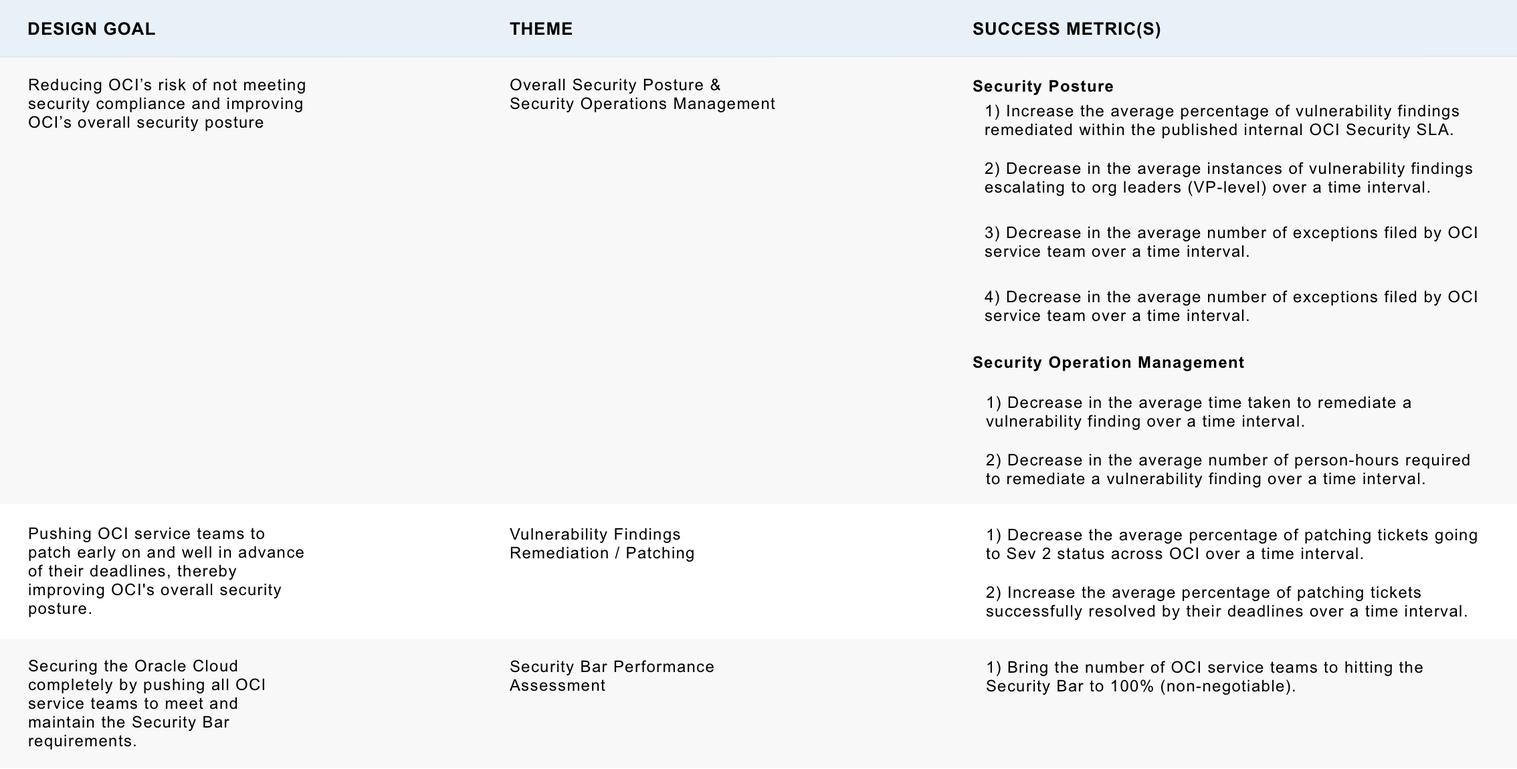
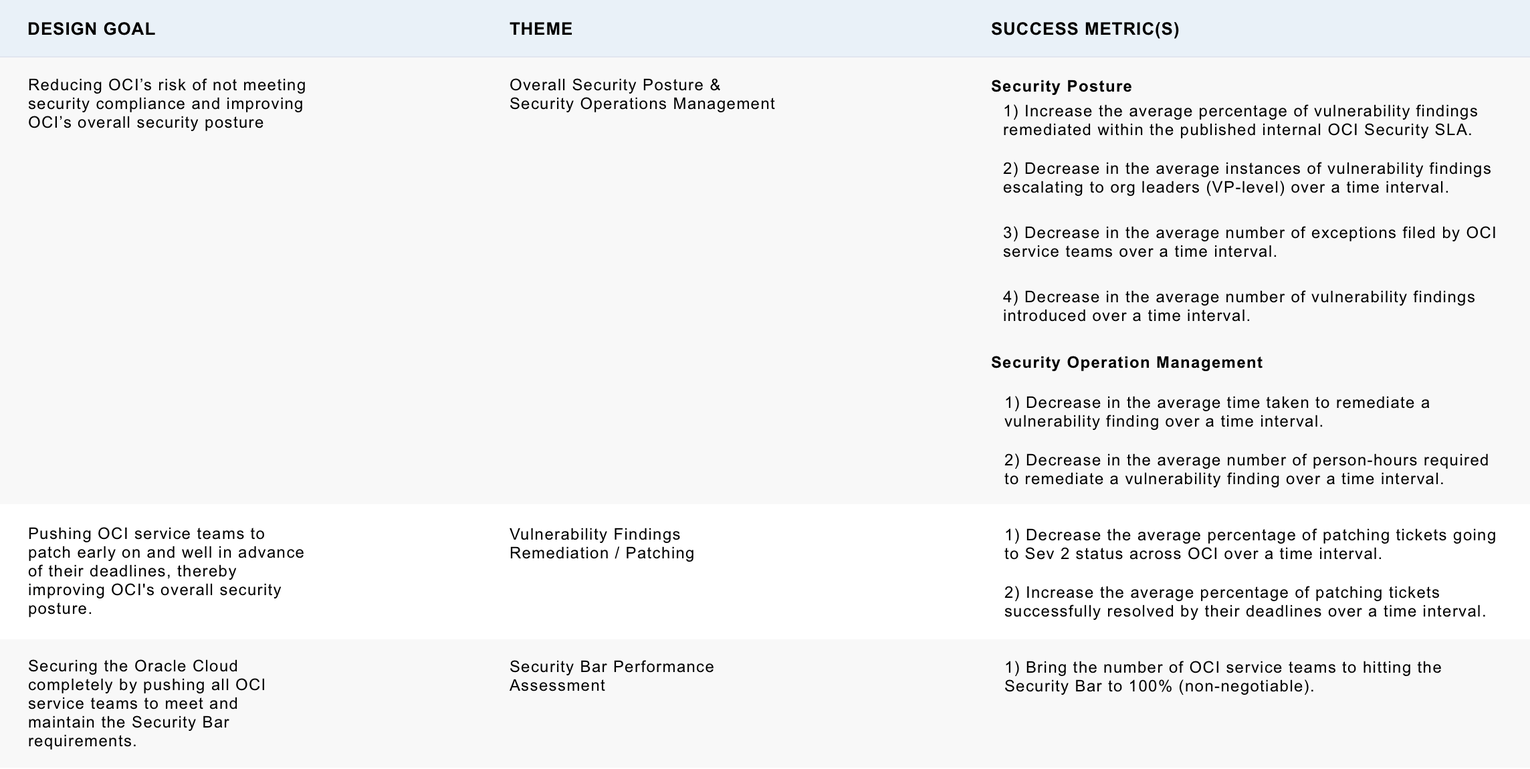
ocisecurity updates major

diff --git a/ocisecurityproject.html b/ocisecurityproject.html
@@ -142,46 +142,49 @@
                 <div class="single-post-content">
                   <p class="italic">Larry Ellison speaking about the company's critical focus on Security (as part of its strategic investment into the cloud) at Oracle OpenWorld 2019 - Oracle's annual tech conference</p>
                   <h2>Security means business</h2>
-                  <p>Keeping Oracle Cloud Infrastructure (OCI) secure is a task of paramount importance that holds a central role in OCI's cloud and customer experience strategy. Ever since the conception of OCI, Larry Ellison has repeatedly pointed to Security as one of its top areas of focus. In fact, OCI's homegrown second-generation cloud infrastructure was built on top of a "fundamental re-architecture of the conventional public cloud, because “the current state of the art of cloud defenses is just not good enough, not even close,”" Oracle Executive Chairman and CTO Larry Ellison said during his keynote at the 2018 Oracle OpenWorld.</p>
+                  <p>Keeping Oracle Cloud Infrastructure (OCI) secure is a task of paramount importance that holds a central role in OCI's customer experience strategy. Ever since the conception of OCI, Larry Ellison has repeatedly pointed to Security as one of its top focus areas. In fact, OCI's homegrown second-generation cloud infrastructure was built on top of a "fundamental re-architecture of the conventional public cloud". As Larry himself stated simply during his keynote at Oracle OpenWorld 2019:</p> 
+                  <blockquote>The current state of the art of cloud defenses is just not good enough, not even close.</blockquote>
                   <p>As such, how well can OCI secure its cloud is a factor that possesses a direct business impact on how likely it is for the company to win its cloud market share.</p>
-                  <h2>Working backwards</h2>
+                  <h2>Aligning with business objectives</h2>
                   <p>As an organization, possessing a robust security posture would provide OCI with the foundation that enables customers to trust it with their most valuable workloads. In this respect, the company's ability to provide leading security requires that it strives to address the following business goals:</p>
                   <ul>
-                    <li><span style="color:#4c4c4c;font-weight:bold">Regulatory Adherence &amp; Accreditation - </span>Keep Oracle Cloud out of legal complications and win more business.</li>
+                    <li><span style="color:#4c4c4c;font-weight:bold">Regulatory Adherence &amp; Accreditation - </span>Keep OCI out of legal complications and win more business.</li>
                     <li><span style="color:#4c4c4c;font-weight:bold">OCI Security Bar - </span>Do the things necessary to secure our cloud.</li>
                     <li><span style="color:#4c4c4c;font-weight:bold">Rapid Security Response - </span>Fix all the bad things we find as efficiently as possible.</li>
-                    <li><span style="color:#4c4c4c;font-weight:bold">Scalable Security Operations - </span>Keep up with 1, 2, and 3 as Oracle Cloud continues grow.</li>
+                    <li><span style="color:#4c4c4c;font-weight:bold">Scalable Security Operations - </span>Keep up with 1, 2, and 3 as OCI continues grow.</li>
                   </ul>
-                  <p>This all starts with knowing what the company must protect. OCI cannot secure what it doesn't know exist. <span style="color:#4c4c4c;font-weight:bold">In fact, the top threat to the security of Oracle Cloud is a lack of an authoritative asset inventory and security reporting/assessment mechanism.</span></p> 
+                  <p>This all starts with knowing what the company must protect. OCI cannot secure what it doesn't know exist. <span style="color:#4c4c4c;font-weight:bold">In fact, the top threat to the security of OCI is a lack of an authoritative asset inventory and security reporting/assessment mechanism.</span></p> 
                   <h2>Introduction to Security Central</h2>
-                  <p>Inventory management is at the core of OCI's security solution. The company needs an application that can help it capture rapidly changing asset information, and serve as the source of truth for all physical and virtual assets in OCI's data centers. At the same time, this application should also be a security reporting / assessment service that could provide a centralized view of the security status for all tracked assets. Ideally, it would enable OCI service owners, leadership, as well as Security and Compliance teams to understand the company's current security posture. It would automate security reporting for use in compliance audits, and notify asset owners when remediation is required. While Spotlight - OCI's legacy tool for inventory management - served as an effective inventory manager, it didn't quite do a good job at visualizing the desired centralized view of the organization's security posture.</p>
-                  <p>As such, Security Central has been introduced to become OCI's go-to security management service with the ultimate goal of becoming a "single-pane" interface for OCI service teams, leadership, and Security / Compliance teams to assess and understand OCI's assets' security / compliance status. In a nutshell, OCI service teams should be efficiently notified of security findings and accordingly provided with a clear path to remediation; leadership can quickly understand the security status of assets owned by their teams and services, aggregated at any level; and Security / Compliance relies on Security Central's daily findings reports to understand the risk to our compliance posture, giving them the ability to effectively generate reports for our auditors.</p>
-                  <p>In order to help bring these ideals to life, the Security Central UI/UX requires enhancements that span across various themes / areas, and a truly collaborative effort that leverages and iterative design process:</p>
+                  <p>Inventory management is at the core of OCI's security solution. The company needs an internal application that can help it capture rapidly changing asset information, and serve as the source of truth for all physical and virtual assets in OCI's data centers. At the same time, this application should also be a security reporting / assessment service that could provide a centralized view of the security status for all tracked assets. Ideally, it would enable OCI service owners, leadership, as well as Security and Compliance teams to understand the company's current security posture. It would automate security reporting for use in compliance audits, and notify asset owners when remediation is required. While Spotlight - OCI's legacy tool for inventory management - served as an effective inventory manager, it didn't quite do a good job at visualizing the desired centralized view of the organization's security posture.</p>
+                  <p>As such, Security Central has been envisioned to become OCI's go-to security management service, with the ultimate goal of becoming a "single-pane" interface for OCI service teams, leadership, and Security / Compliance teams to assess and understand OCI's assets' security / compliance status. In a nutshell, OCI service teams should be efficiently notified of security findings and accordingly provided with a clear path to remediation; leadership can quickly understand the security status of assets owned by their teams and services, aggregated at any level; and Security / Compliance relies on Security Central's daily findings reports to understand the risk to OCI's compliance posture, giving them the ability to effectively generate reports for our auditors.</p>
+                  <p>In order to help bring these ideals to life, the Security Central UI/UX requires enhancements that span across various themes / areas, and a truly collaborative effort that leverages an iterative design process:</p>
                   <img src="images/OCISECURITYimages/ocisecurityprocess.png" alt="">
                   &nbsp; 
                   <h2>Problem Statements &amp; User Personas</h2>
-                  <p>Below is a general outline of the different themes that are relevant and all play a role in determining how good OCI's security posture could be. <span style="color:#4c4c4c;font-weight:bold">Through an affinity diagramming exercise, these themes have been defined based on the user data collected from user requirements meetings and user interviews.</span> Each one of these themes present certain challenges and user pain points - those of which will benefit from UI/UX enhancements as well as feature additions to the tool.</p>
+                  <p>Below is a general outline of the different themes that are relevant and all play a role in determining how good OCI's security posture could be. <span style="color:#4c4c4c;font-weight:bold">Through an affinity diagramming exercise, these themes have been defined based on the user data collected from user requirements meetings and user interviews.</span> Each of these themes presents certain challenges and user pain points - those of which will benefit from UI/UX enhancements as well as feature additions to the tool:</p>
                   <ul>
                     <li>Overall Security Posture &amp; Security Operations Management</li>
                     <li>Vulnerability Findings Remediation / Patching Completeness</li>
                     <li>Security Bar Performance Assessment</li>
                   </ul>
+                  <img src="images/OCISECURITYimages/ocisecurityaffinity.jpg" alt="">
+                  &nbsp;
                   <h1>Overall Security Posture &amp; Security Operations Management</h1>
                   <ul>
                     <li>It is difficult for OCI service teams and their leaders today to quickly and seamlessly gain a data-driven / high-level insight into their team's / org's security posture, thereby enhancing the challenge of allocating resources effectively to areas that need overall security support.</li>
-                    <li>Likewise, the OCI Security team lacks a truly data-driven, seamless, and automated mechanism that will allow them to generate meaningful insights and metrics around their partner OCI service teams' security postures, thereby enhancing the challenge of efficiently supporting these teams in remediating their vulnerability findings. The existing support mechanism is very manual and heavily reliant on JIRA.</li>
+                    <li>Likewise, OCI Security support teams lack a truly data-driven, seamless, and automated mechanism that will allow them to generate meaningful insights and metrics around their partner OCI service teams' security postures, thereby enhancing the challenge of efficiently supporting these teams in remediating their vulnerability findings. The existing support mechanism is very manual and heavily reliant on JIRA.</li>
                     <li>It is also difficult for OCI service teams to grasp a high-level view of their asset inventory, and pinpoint areas / resources that are posing security issues. Again, this enhances the challenge of allocating resources effectively to areas that need overall security support.</li>
                   </ul>
                   <h1>Vulnerability Findings Remediation / Patching Completeness</h1>
                   <ul>
-                    <li>OCI service teams are not proactively patching their resources early enough in the patching cycle. They are mostly acting reactively to their patching tickets escalating to Sev2 status, or worse, violating the published internal Patching SLA. The average percentage of patching tickets escalating to Sev2 status and risking violation of the published internal Patching SLA is high at over .... This maintains the risk of OCI not meeting security compliance at a worryingly level, potentially placing a big business impact on the company.</li>
+                    <li>OCI service teams are not proactively patching their resources early enough in the patching cycle. They are mostly acting reactively to their patching tickets escalating to Sev2 status, or worse, violating the published internal Patching SLA. The average percentage of patching tickets escalating to Sev2 status and risking violation of the published internal Patching SLA is high at over 10%. This poses the risk of OCI not meeting security compliance at a worryingly level, potentially placing a big business impact on the company.</li>
                   </ul>
                   <h1>Security Bar Performance Assessment</h1>
                   <ul>
                     <li>It is difficult for OCI service teams and general OCI senior leadership to assess how well their org / team is doing in meeting the OCI Security Bar requirements, thereby enhancing the challenge of allocating resources effectively to areas that need overall security support. Security Bar is an interesting theme, because in a way it's a program that has been designed to cover aspects of both the two themes described above (i.e. patching completeness rate over a specific time interval is part of the Security Bar). However, it is necessary to give Security Bar its own theme as a way of emphasizing its significance - having been been repeatedly mentioned by users throughout our user interviews and requirements gathering sessions.</li>
                   </ul> 
                   <h1>User Personas</h1>
-                  <p>Thinking through these themes and problems also lead to the identification of these primary user personas:</p>
+                  <p>Analyzing through these themes and user problems also lead to the identification of these primary user personas:</p>
                   <ul>
                     <li>OCI Service Engineer</li>
                     <li>OCI Service Manager</li>
@@ -193,56 +196,69 @@
                   <img src="images/OCISECURITYimages/ocisecuritydesigngoals.png" alt="">
                   &nbsp;
                   <h2>User Goals &amp; Questions</h2>
-                  <p>One finding gathered from the user research process is that while all users possess the same big two mental model questions, to various degrees, they may come to Security Central with differing goals, needs, and more granular questions in mind.</p>
-                  <h1>Two Big Mental Model Questions</h1>
+                  <p>One finding gathered from the user research process is that while all users possess the same two birds-view questions, to various degrees, they may come to Security Central with differing goals, needs, and more granular questions in mind.</p>
+                  <h1>Two Birds-View Questions</h1>
                   <ul>
                     <li>Is OCI secure?</li>
                     <li>Is OCI security-compliant?</li>
                   </ul>
-                  <h1>Granular Resource-Level User Questions</h1>
-                  <p>Below the top-level user questions above are more drilled down, granular questions users would ask as they advance through their workflows. <span style="color:#4c4c4c;font-weight:bold">Different questions asked by different groups of users, and it's important to precisely identify these connections (i.e. which user would ask what question, and why?) in order to better assess where the design priorities should be.</span> These questions are all directed and lead by a specific goal users strive to achieve by executing these workflows. A big table is created to consolidate all of this data. Below is one sliced portion of it:</p>
+                  <h1>Granular-Level User Questions</h1>
+                  <p>Below the birds-level user questions above are more drilled down, granular questions users would ask as they advance through their workflows. <span style="color:#4c4c4c;font-weight:bold">Different questions are asked by different groups of users, and it's important to precisely identify these connections (i.e. which user would ask what question, and why?) in order to better assess where the design priorities should be.</span> These questions are all directed and lead by a specific goal users strive to achieve by executing these workflows. A big table is created to consolidate all of this data. Below is a sliced portion of it:</p>
                   <img src="images/OCISECURITYimages/ocisecurityusergoals.png" alt="">
                   &nbsp;  
                   <h2>Early Design</h2>
-                  <p>Conducting user research is extremely critical in opening more doors to better understanding user contexts. Equipped with this knowledge gain, <span style="color:#4c4c4c;font-weight:bold">early design sketches are accordingly produced to visualize plausible user journeys / workflows and how different stages throughout these flows may be mapped to the defined user goals and questions.</span></p>
-                  <p>User journey mapping as an exercise creates opportunities for the design and product team to expand further on the user worflows and envision how different interfaces / views could be designed to support these workflows. The User Goals &amp; Questions table is revisited frequently during this stage to ensure that user needs are always taken into account, and as the creative process begins with more interfaces coming into the picture, an extra column is added to the table to delienate how specific views could be leveraged to support specific user goals / needs.</p>
+                  <p>Conducting user research is extremely critical in opening more doors to better understanding user contexts. Equipped with this knowledge gain, <span style="color:#4c4c4c;font-weight:bold">early design sketches are accordingly produced to visualize plausible user journeys / workflows and how different stages throughout these flows may be mapped to the defined user goals and questions:</span></p>
+                  <p>User journey mapping as an exercise creates opportunities for the design and product team to expand further on the user worflows and envision how different interfaces / views could be designed to support these workflows. The User Goals &amp; Questions table is revisited frequently during this stage to ensure that user needs are always taken into account, and as the creative process begins with more interfaces coming into the picture, an extra column is added to the table to delienate how specific views could be leveraged to support specific user goals / needs:</p>
                   <img src="images/OCISECURITYimages/ocisecurityviews.png" alt="">
                   &nbsp;
                   <h2>Competitive Analysis</h2>
-                  <p>Part of understanding users and their context is understanding the ecosystem within which they operate, and part of understanding this ecosystem requires an analysis of various different competing providers of the same product / service in the market. <span style="color:#4c4c4c;font-weight:bold">Competitive analysis is therefore a crucial aspect of the process. Not only does serve as a source for creative inspiration, it also helps surface better understandings around what works and what doesn't, thereby revealing opportunities where unarticulated user needs may be addressed.</span></p>
+                  <p>Part of understanding users and their context is understanding the ecosystem within which they operate, and part of understanding this ecosystem requires an analysis of various competing providers of the same product, service, or simply solutions to similar UX problems. <span style="color:#4c4c4c;font-weight:bold">Competitive analysis is therefore a crucial aspect of the process. Not only does serve as a source for creative inspiration, it also helps surface better understandings around what works and what doesn't, thereby revealing opportunities where unarticulated user needs may be addressed:</span></p>
                   <img src="images/OCISECURITYimages/ocisecuritycompetition.png" alt="">
                   &nbsp;
-                  <p>Heuristic evaluation is a common exercise that often accompanies these competitive analyses.</p>
+                  <p><span style="color:#4c4c4c;font-weight:bold">Heuristic evaluation is a common exercise that often accompanies these competitive analyses:</span></p>
                   <img src="images/OCISECURITYimages/ocisecurityheuristic.png" alt="">
                   &nbsp;
                   <h2>User Testing</h2>
-                  <p>To avoid designing in a vacuum and ensure that a highly collaborative process is followed, coordination and support across all relevant products / functional areas - as well as other relevant stakeholders - are involved. <span style="color:#4c4c4c;font-weight:bold">Amongst different stakeholder groups, users play the most critical role. They too are involved in the design process in the form of user testing.</span></p>
+                  <p>To avoid designing in a vacuum and ensure that a highly collaborative process is followed, coordination and support across all relevant products / functional areas - as well as other relevant stakeholders - are involved. <span style="color:#4c4c4c;font-weight:bold">Amongst different stakeholder groups, users play the most critical role. They too are involved in the design process in the form of user testing:</span></p>
                   <img src="images/OCISECURITYimages/ocisecuritytest.png" alt="">
                   &nbsp;
-                  <p>In this respect, the design and build team behind Security Central holds a four-hours user testing session every sprint (two weeks; bi-weekly cadence). For each session, typically two design questions / areas with clearly defined test goals are picked for testing, and four user participants are selected to test each item. Each test is conducted and timed within a twenty minutes box, and users are asked to finish a given task using the provided UI during this time box. Depending on the participants' time and physical availabilities, either an in-person or remote test is held. Throughout the tests, participants are encouraged to speak aloud their thoughts, experiences, questions, and/or pain points, and all of their quotes are carefully noted down. Specific workflow metrics (i.e. time taken to complete tasks, task completiton rate) are also identified and tracked throughout the tests. All of these data are accordingly collected and further consolidated by the design and product team immediately following the test sessions.</p> 
+                  <p>In this respect, the design and product team behind Security Central holds a four-hours user testing session every sprint (two weeks). The sessions are mandatory for designers and engineers, while all other product stakeholders are encouraged to attend. For each session, typically two design questions / areas with clearly defined test goals are picked for testing, and four user participants are selected to test each item. Each test is conducted and timed within a twenty minutes box, and users are asked to finish a given task using the provided UI during this time box.</p>
+                  <p>Depending on the participants' time and physical availabilities, either an in-person or remote test is held. Throughout the tests, participants are encouraged to speak aloud their thoughts, experiences, questions, and/or pain points, and all of their quotes are carefully noted down. Specific workflow metrics (i.e. time taken to complete tasks, task completiton rate) are also identified and tracked throughout the tests. All of these data are accordingly collected and further consolidated by the design and product team immediately following the test sessions.</p> 
+                  <h1>A selected example of how user testing helps to reveal design gaps and influence design directions</h1>
+                  &nbsp;
+                  <p>1.<span style="color:#4c4c4c;font-weight:bold"> Upcoming Key Dates</span> - Since Security Central's inception, users have repeatedly expressed a desire to have a "timeline visualization". Essentially, they need an effective mechanism that can help provide better visibility into relevant security timelines (i.e. host patching) and the important dates / gates they should be aware of. Early design explorations made use of common time-related components such as the vertical time journey (top) or the calendar (bottom):</p>
+                  <img src="images/OCISECURITYimages/ocisecuritytimelinebefore.png" alt="">
+                  &nbsp;
+                  <p>User testing, however, reveals that:</p>
+                  <ul>
+                    <li>Users need a timeline view that spans across two consecutive months. Some cycles start on the 15th of every month and lasts for the entire thirty days.</li>
+                    <li>Rather than just telling them of upcoming deadlines, users prefer the system to dynamically inform them whether they actually have to care about these deadlines (based on their custom environments). For example, if they have completed host patching for the current cycle, they wouldn't have to worry about any upcoming patching-related deadlines. Users need the system to communicate this message effectively.</li> 
+                    <li>Security is critical by nature, and users need to be (subtly) given a sense of urgency when it comes to security matters. Informing them of upcoming deadlines is nice, but they need to better understand the implications / consequences of not hitting these due dates.</li>
+                    <li>The "timeline visualization" is an opportunity where users can be guided towards solutions for a set of particular issues. They have a deadline coming up, they know they have stuff to work on, they are informed of the implications of not addressing them, but where do they start? Again, such messaging needs to be intelligently communicated to users.</li>
+                  </ul>
+                  <p>These learnings in turn present the design and product team with an opportunity to modify the "Upcoming Key Dates" card on the Summary Dashboard view in order to better serve user needs:</p>
+                  <img src="images/OCISECURITYimages/ocisecuritytimelineafter.png" alt="">
+                  &nbsp;
+
                   <h2>High-Fidelity Design</h2>
-                  <p>Below is a few selected hi-fidelity wireframes produced for various purposes, including leadership demos, usability testing, and dev collaboration. These are created using the existing UI components library utilized by the UI dev team, with close attention paid to maintaining visual consistency across the OCI services portfolio.</p>
+                  <p>Below is a few selected hi-fidelity wireframes produced for various purposes, including leadership demos, user testing, and general design-dev collaborations. These are created using the existing UI components library utilized by the UI dev team, with close attention paid to maintaining visual consistency across the OCI services portfolio.</p>
                   <h1>Summary Dashboard - Before</h1>
                   &nbsp;
                   <img src="images/OCISECURITYimages/ocisecuritysummarybefore.png" alt="">
                   &nbsp;
                   <h1>Summary Dashboard - After</h1>
-                  &nbsp;
+                  <p>Labelled are the important design decisions / directions made for the Summary Dashboard view:</p>
                   <img src="images/OCISECURITYimages/ocisecuritysummaryafter.png" alt="">
                   &nbsp;
-                  <p>As labeled above, here're examples of important design decisions / directions made for the Summary Dashboard view:</p>
-                  <p>1.<span style="color:#4c4c4c;font-weight:bold"> Focused and directive guidance</span> - Redesigned top-level navigation bar to indicate important security areas.</p>
-                  <p>2.<span style="color:#4c4c4c;font-weight:bold"> Better insights and visibility</span> - Users mostly care about open critical areas that need their immediation attention, and the general design direction is to place an emphasis on these "red flags".</p>
-                  <p>3.<span style="color:#4c4c4c;font-weight:bold"> Anticipating actions &amp; needs</span> - Users want to be proactive, and one of way of supporting them in this need is to let them know of what to expect and anticipate, so they can better plan their work efforts and resources.</p>
-                  <p>4.<span style="color:#4c4c4c;font-weight:bold"> Birds-eye views</span> - Users like to see high-level metrics that are reflective of their overall security health. Depending on what they care, these "metrics" are customizable.</p>
-                  <p>5.<span style="color:#4c4c4c;font-weight:bold"> Predictions &amp; suggestions</span> - An effort to service users even more effectively by continuously working in the background to monitor internal and external data and make suggestions based on changing environments and situations.</p>
-                  
-
-              
-
-  
-
-                  <h2>More Coming Soon...  </h2>              
+                  <h2>Progress Tracking</h2>
+                  <p>The original design goals and their corresponding success metric(s) are constantly tracked and monitored as one simple validation of the design directions taken. One year following numerous iterative UI/UX enhancements to Security Central, and the results have been quite encouraging:</p>
+                  <img src="images/OCISECURITYimages/ocisecurityresult.png" alt="">
+                  &nbsp;
+                  <h2>Design Opportunities</h2>
+                  <p>Designing for Security Central is a super exciting project, as it presents endless opportunities where design and technology can join force to create a real impact for users and on the business. Throughout the design and development process, multiple areas have been identified as future design aspirations the team could take on to make Security Central an even more delightful application for users:</p>  
+                  <p>1.<span style="color:#4c4c4c;font-weight:bold"> Dynamic forecasting and adjusting</span> - With OCI's strategic focus on autonomous security, powered by machine learning and artificial intelligence technologies, Security Central will have the ability to automatically identify issues, forecast needs, and automatically make holistic adjustments across the entire user fleet in order to maintain their security posture.</p>
+                  <p>2.<span style="color:#4c4c4c;font-weight:bold"> Personal and human</span> - A relationship between OCI and users already exist, as they use its products and interact with its brand. Why not speak to them conversationally and present information in a way that feels personable and human. After all, companies build products so they may work for users - not the other way around. Security Central, as a product, strives to help users become more efficient in their jobs. Why not present information in a way that makes users perceive Security Central as if it's an extension of their team.</p>
+                  <p>3.<span style="color:#4c4c4c;font-weight:bold"> Contextual content</span> - Users shouldn't have to dig into different areas of a product to obtain different documents and information they need to complete a task. As a product, Security Central should be able to intelligently display the relevant information in one place by seamlessly integrating information, documents, and functions into single, easy-to-consume views - wherever and whenever users may need them.</p>           
                 </div>
                 <div class="clearfix post-footer">
                 <div class="left post-like"> <span class="numb">Like what you saw? SHARE IT :-)</span></div>
